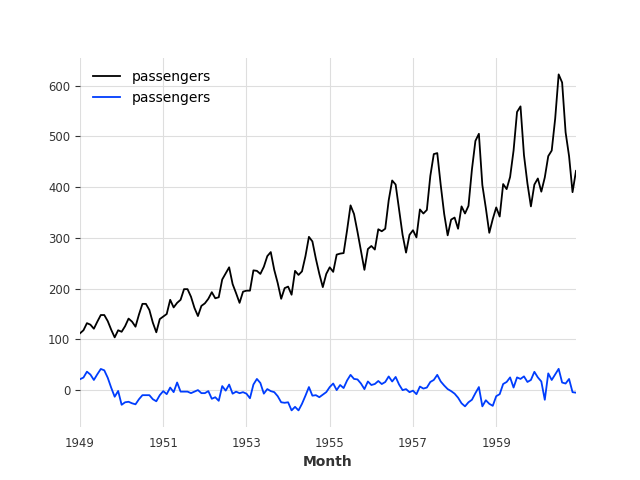
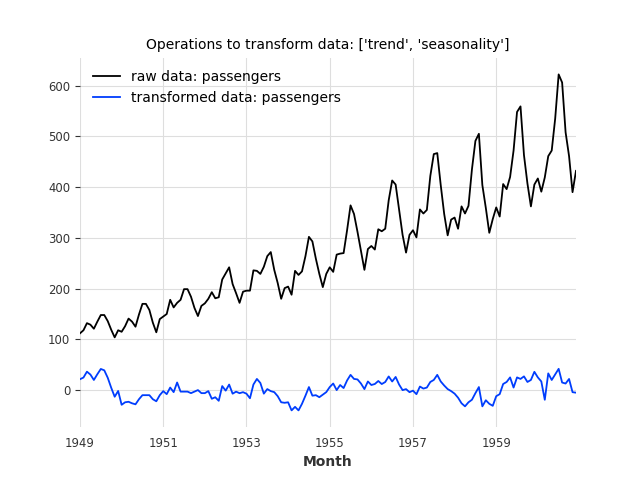
modif visualization.py

Changed region(s): [[0.1875, 0.0625, 0.7812, 0.2188]]

diff --git a/src/pasts/visualization.py b/src/pasts/visualization.py
@@ -59,16 +59,20 @@ class Visualization:
         Plots raw data and transformed data if operations have been applied.
         """
         fig, ax = plt.subplots()
+        legend = []
         i = 0
         self.__signal.data.plot(ax=ax, **kwargs)
         for col in self.__signal.data.columns:
-            ax.lines[i].set_label(f'actual series {col}')
+            legend.append(f'raw data: {col}')
             i += 1
         if (self.__signal.data - self.__signal.rest_data).sum().sum() != 0:
             self.__signal.rest_data.plot(ax=ax, **kwargs)
             for col in self.__signal.rest_data.columns:
-                ax.lines[i].set_label(f'transformed series {col}')
+                legend.append(f'transformed data: {col}')
                 i += 1
+        plt.legend(legend)
+        plt.title(f'Operations to transform data: {list(self.__signal.operation_data.dict_op.keys())}',
+                  fontdict={'fontsize': 10})
         plt.show()
 
     def plot_smoothing(self, resample_size: str = 'A', window_size: int = 12) -> None:
